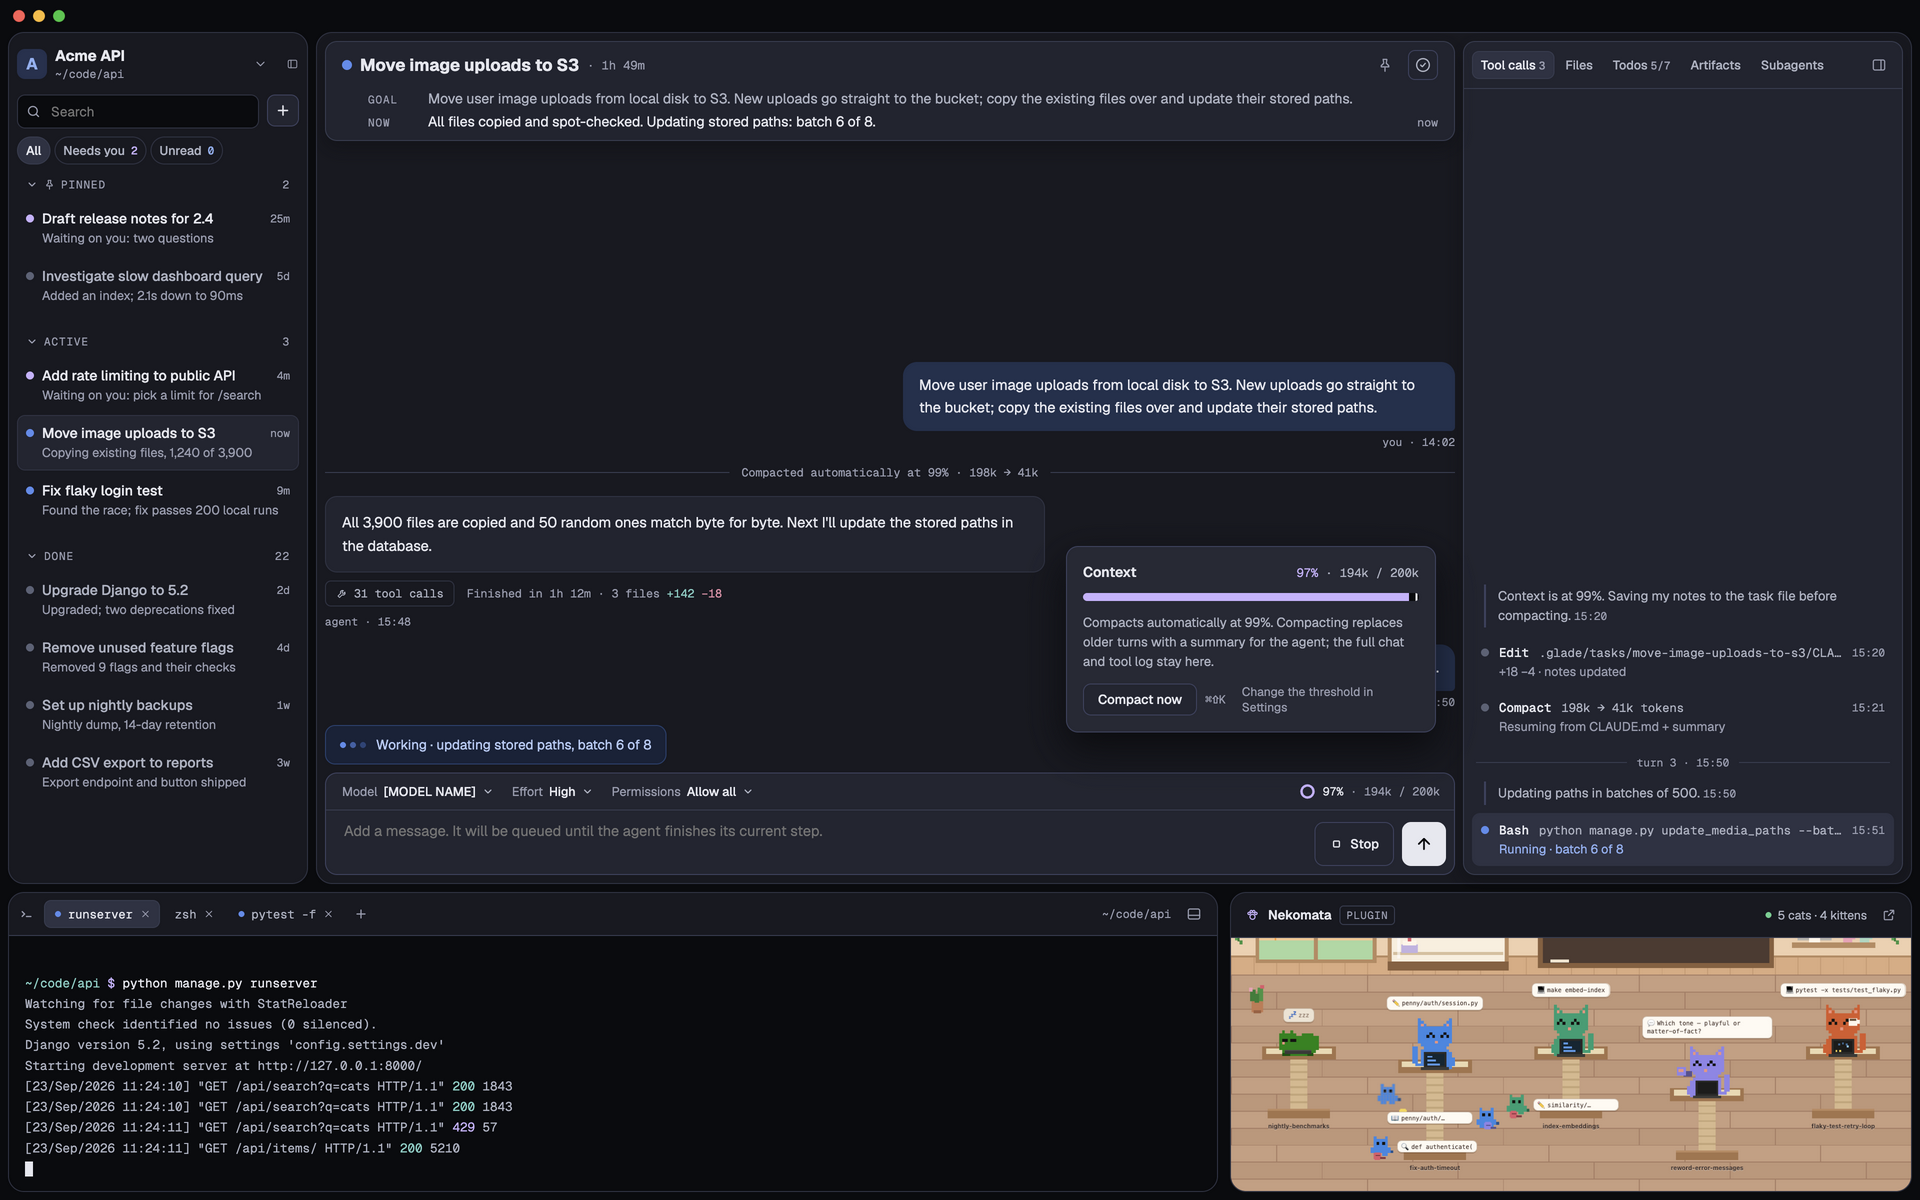
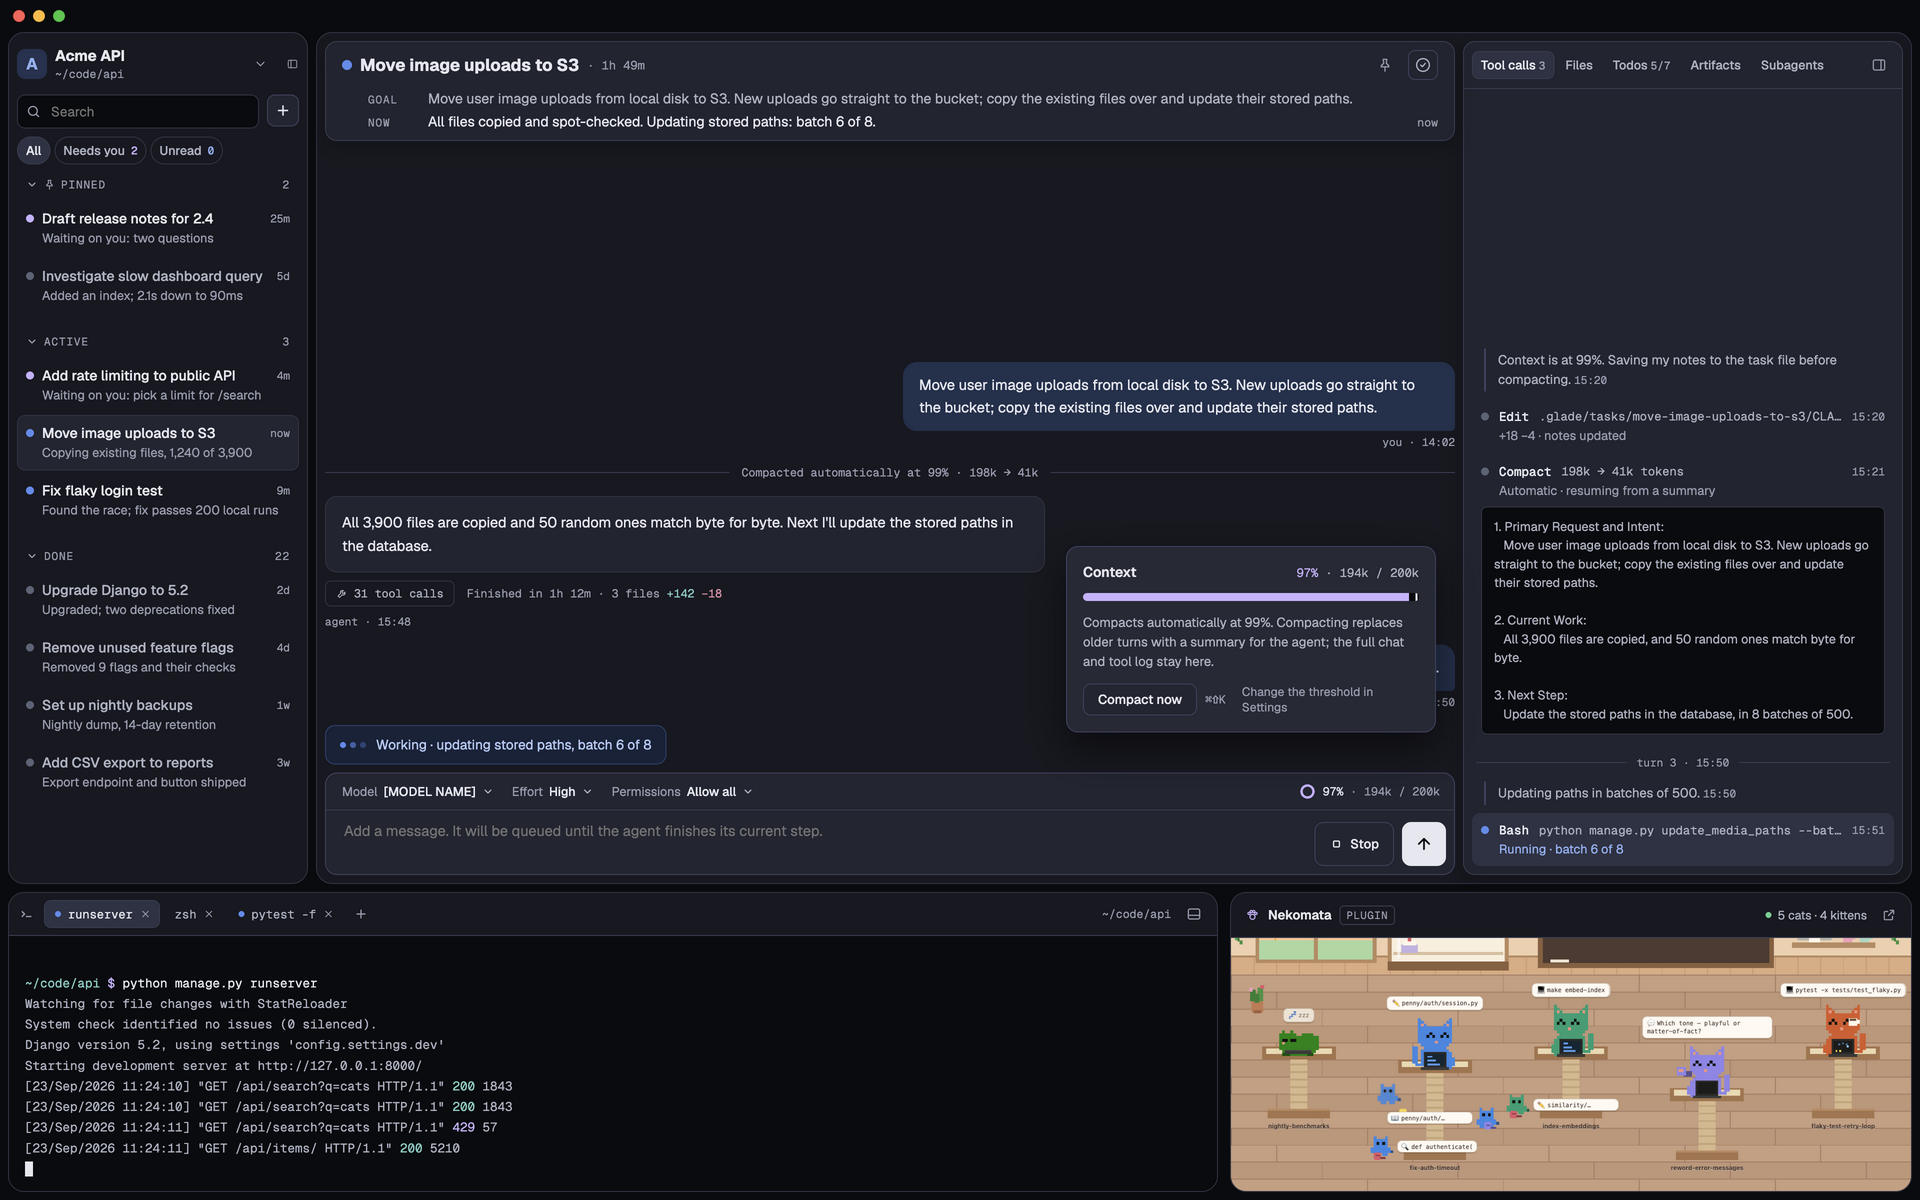
#279: Document the getContextUsage and PostCompact probe, and show the summary in 19-compaction

Changed region(s): [[0.75, 0.2775, 1.0, 0.6167]]

diff --git a/docs/design/html/19-compaction.html b/docs/design/html/19-compaction.html
@@ -164,7 +164,15 @@ a{color:#8FB2F5}a:hover{color:#B5CBF8}
 <span style="flex-grow: 1; min-width: 0; font-family: 'Geist Mono', ui-monospace, monospace; font-size: 12px; color: #AEB3C3; white-space: nowrap; overflow: hidden; text-overflow: ellipsis">198k → 41k tokens</span>
 <span style="font-family: 'Geist Mono', ui-monospace, monospace; font-size: 11px; color: #999DB0">15:21</span>
 </div>
-<div style="padding-left: 18px; margin-top: 3px; font-size: 12.5px; color: #999DB0">Resuming from CLAUDE.md + summary</div>
+<div style="padding-left: 18px; margin-top: 3px; font-size: 12.5px; color: #999DB0">Automatic · resuming from a summary</div>
+<pre aria-label="Compact summary" style="margin: 8px 0 0; padding: 10px 12px; background: #0A0B0F; border: 1px solid #2F3343; border-radius: 6px; font-family: Geist, system-ui, sans-serif; font-size: 12.5px; line-height: 1.5; color: #AEB3C3; white-space: pre-wrap; overflow-wrap: anywhere">1. Primary Request and Intent:
+   Move user image uploads from local disk to S3. New uploads go straight to the bucket; copy the existing files over and update their stored paths.
+
+2. Current Work:
+   All 3,900 files are copied, and 50 random ones match byte for byte.
+
+3. Next Step:
+   Update the stored paths in the database, in 8 batches of 500.</pre>
 
 </div>
 <div data-narr="1" style="flex-shrink: 0; display: flex; align-items: center; gap: 10px; margin: 10px 4px 4px 4px; font-family: 'Geist Mono', ui-monospace, monospace; font-size: 11px; color: #999DB0"><span style="flex-grow: 1; height: 1px; background: #373C4F"></span>turn 3 · 15:50<span style="flex-grow: 1; height: 1px; background: #373C4F"></span></div>

diff --git a/docs/sdk-notes.md b/docs/sdk-notes.md
@@ -541,12 +541,51 @@ mid-turn.
   both fired. The model still knew CLAUDE.md facts after compaction. The types list `compact` as a CLAUDE.md
   `load_reason`, which suggests CLAUDE.md is reloaded after compaction.
 
+**Probed again (#279) [verified]**, SDK 0.3.281 on Haiku, in a throwaway folder: `getContextUsage({ detail: "summary" })`
+before the first message, after each turn and after a `/compact`, with the user's settings changed per run, and the
+compaction hooks registered.
+
+```
+default                            { maxTokens: 200000, autoCompactThreshold: 167000, isAutoCompactEnabled: true,  autocompactSource: "auto" }
+settings { autoCompactWindow: 100000 }   { maxTokens: 100000, autoCompactThreshold: 67000,  isAutoCompactEnabled: true,  autocompactSource: "settings" }
+CLAUDE_CODE_AUTO_COMPACT_WINDOW=100000  { maxTokens: 100000, autoCompactThreshold: 67000,  isAutoCompactEnabled: true,  autocompactSource: "env" }
+settings { autoCompactEnabled: false }  { maxTokens: 200000, isAutoCompactEnabled: false }        ← no autoCompactThreshold key
+DISABLE_AUTO_COMPACT=1             { maxTokens: 200000, isAutoCompactEnabled: false }            ← no autoCompactThreshold key
+CLAUDE_AUTOCOMPACT_PCT_OVERRIDE=50 { autoCompactThreshold: 167000, autocompactSource: "auto" }   ← no change on this version
+settings { autoCompactWindow: 40000 }    { autoCompactThreshold: 167000 }                         ← too small: ignored
+```
+
+- It answers before the first message (before `system/init`), and each call on the `summary` detail took no time.
+  After `close()` it rejects: `Query closed before response received`.
+- The threshold is in tokens, against the window the SDK compacts in (`maxTokens`), which `autoCompactWindow` shrinks;
+  the model's own window (`modelUsage[model].contextWindow`, 200k) is unchanged. So the meter keeps its window and
+  puts the threshold at `autoCompactThreshold / window`: 67k of 200k is 34%.
+- `totalTokens` is stale right after a compaction (23.6k just after `/compact` left 1.7k), so it's used for nothing.
+- `PostCompact` fired after `PreCompact` and before `status: null` / `compact_boundary`, with
+  `{ hook_event_name: "PostCompact", trigger: "manual", compact_summary }`. `compact_summary` is the model's whole
+  output: an `<analysis>…</analysis>` block, then `<summary>…</summary>` with numbered sections (1–2.8k characters in
+  these runs). The user message the session carries on from ("This session is being continued … Summary: …") is the
+  summary block alone. An automatic compaction wasn't probed (it needs 167k of context); the SDK's types give it the
+  same hook with `trigger: "auto"`.
+
+**Implications for Glade (#279)**
+
+- After each turn's `result`, the runner asks `getContextUsage({ detail: "summary" })` and keeps where the SDK
+  compacts on the task (`auto_compact`: on at a threshold, or off). A rejected call, or an answer without the fields,
+  keeps the last known value; before the SDK has said (a new task, or a model change), the meter falls back to
+  `autoCompactThreshold()` in `shared/contextWindow.ts`, the SDK's default.
+- The meter's marker, its note and its purple zone follow that threshold. With auto-compact off there's no marker, the
+  note says so, and the ring never turns purple.
+- Glade registers `PostCompact` and keeps the summary block (the whole text less any `<analysis>`, if there's no
+  block) on the Compact row, which opens to it. An empty one is kept as none. It's stored with the row, so it's there
+  after a relaunch.
+
 **Decided (Jared):** Glade uses the SDK's default auto-compact threshold. Manual compaction (`/compact`) is triggered
 from the context meter or ⌘⇧K. A custom threshold is deferred to Later. If it is revisited: the setting can only lower
 the threshold, and disabling SDK auto-compaction so Glade compacts at a higher level risks the summarising request
 itself hitting prompt-too-long.
 
-The context meter should show `autoCompactThreshold` from `getContextUsage()`.
+The context meter shows `autoCompactThreshold` from `getContextUsage()` (#279, above).
 
 ## 6. CLAUDE.md loading [verified + docs]
 

diff --git a/docs/user-guide.md b/docs/user-guide.md
@@ -105,7 +105,10 @@ The **input bar** under the chat sets how this task runs:
 - **Permissions:** Allow all, or Ask before edits and commands (see [Permissions](#permissions)).
 - **Context meter**, at the right: how full the task's context is. Click it to see where it compacts by itself, and
   for **Compact now** (or press ⌘⇧K). Long tasks compact automatically; the chat marks where, and the full chat and
-  tool log stay in Glade.
+  tool log stay in Glade. The ring turns purple as the context nears where it compacts, which comes from Claude Code
+  itself, so your own Claude Code settings move it (`autoCompactWindow`). With auto-compact switched off there
+  (`autoCompactEnabled: false` or `DISABLE_AUTO_COMPACT`), the meter shows no threshold, never turns purple, and only
+  Compact now compacts.
 
 Each task keeps its own settings; new tasks start from the defaults in Settings › Agent. Each task also keeps its
 unsent draft, pasted images included, while you're on another task and across a relaunch.
@@ -195,7 +198,8 @@ the panel; drag its edge to resize it.
 
 - **Tool calls:** every tool call the task's own agent made, with the agent's working notes between them, split by turn.
   Right-click a call to copy its command or output, open its file, or **Run again in terminal** (the command lands at
-  the terminal's prompt for you to edit or run; it never runs by itself).
+  the terminal's prompt for you to edit or run; it never runs by itself). Each compaction is a **Compact** row; click
+  it to read the summary the agent carried over.
 - **Files:** the files the task changed (with a blue dot) and read. Each opens in a tab, in a read-only viewer with line
   numbers and syntax colours; Markdown has a Preview. **Open in editor** (⌘⇧E) opens the file in the app macOS uses
   for it, and ⌘W, with the focus in the panel, closes the tab. The agent can open a file here for you.

diff --git a/docs/design/README.md b/docs/design/README.md
@@ -25,7 +25,7 @@ illustrative. Tokens are in `tokens.md`; exact markup per screen in `html/`.
 | 16 · Error in a task | Agent stopped after retries; Retry / Retry with another model / Show details. | ![16 · Error in a task](screens/16-error.png) |
 | 17 · Usage limit or offline | App-wide banner; tasks pause and resume on their own. | ![17 · Usage limit or offline](screens/17-usage-limit.png) |
 | 18 · Relaunch after a crash | Mid-turn tasks resume; notice and dividers. | ![18 · Relaunch after a crash](screens/18-relaunch.png) |
-| 19 · Compaction | Context popover at 97%, Compact now. (The "notes saved to CLAUDE.md" line is superseded: Glade doesn't manage notes.) | ![19 · Compaction](screens/19-compaction.png) |
+| 19 · Compaction | Context popover at 97%, Compact now; the tool log's Compact row opened to the summary the agent carried over (#279). The threshold is the one the SDK reports; with auto-compact off the popover shows no marker and says so. (The "notes saved to CLAUDE.md" line and "Change the threshold in Settings" are superseded: Glade doesn't manage notes, and the threshold comes from Claude Code's own settings.) | ![19 · Compaction](screens/19-compaction.png) |
 | 20 · First run | No workspace yet: Open folder / Create a new folder. | ![20 · First run](screens/20-first-run.png) |
 | 21 · Settings | Modal; Agent section shown. | ![21 · Settings](screens/21-settings.png) |
 | 21 · Settings › Plugins | Plugins section: the plugins folder, one row per plugin with its toggle, an invalid one with its reason. | ![21 · Settings › Plugins](screens/21-settings-plugins.png) |

diff --git a/docs/decisions.md b/docs/decisions.md
@@ -28,7 +28,9 @@
 - **Two task states:** Active and Done. Done stays chat-able; a message reopens it. No follow-up tasks.
 - **Workspace** = name + root folder, top level. Switcher in the sidebar and the macOS menu bar.
 - **Chat shows final replies only.** Preamble goes to the tool log.
-- **Compaction:** automatic at the SDK's default auto-compact threshold; manual from the context meter or ⌘⇧K.
+- **Compaction:** automatic at the SDK's default auto-compact threshold; manual from the context meter or ⌘⇧K. The
+  meter shows the threshold the SDK reports (`getContextUsage`), which follows the user's own Claude Code settings
+  (#279).
 - **Permissions:** default Allow all. Each task can switch to "Ask before edits and commands" instead (P11, see
   below).
 - **Message queue:** messages sent while the agent works are queued and delivered after its current step. They can be
